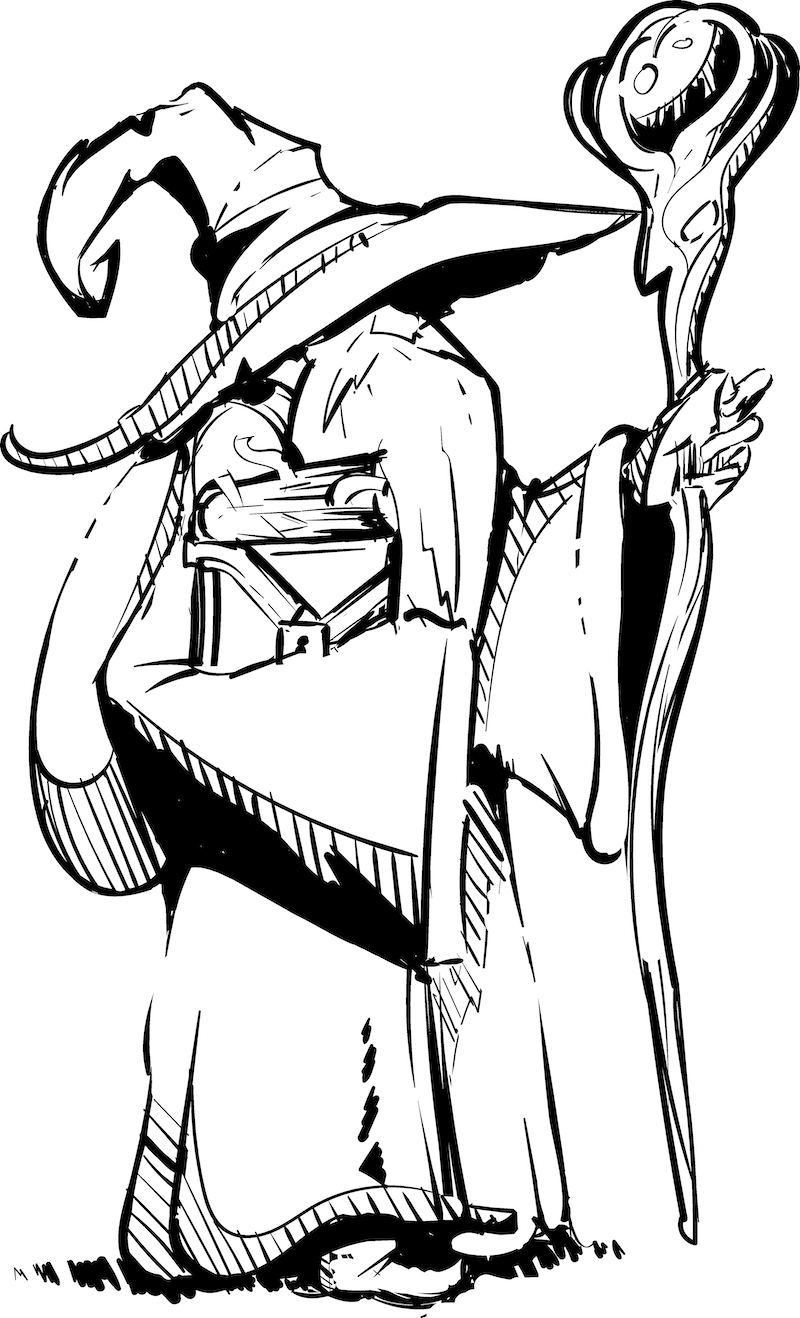
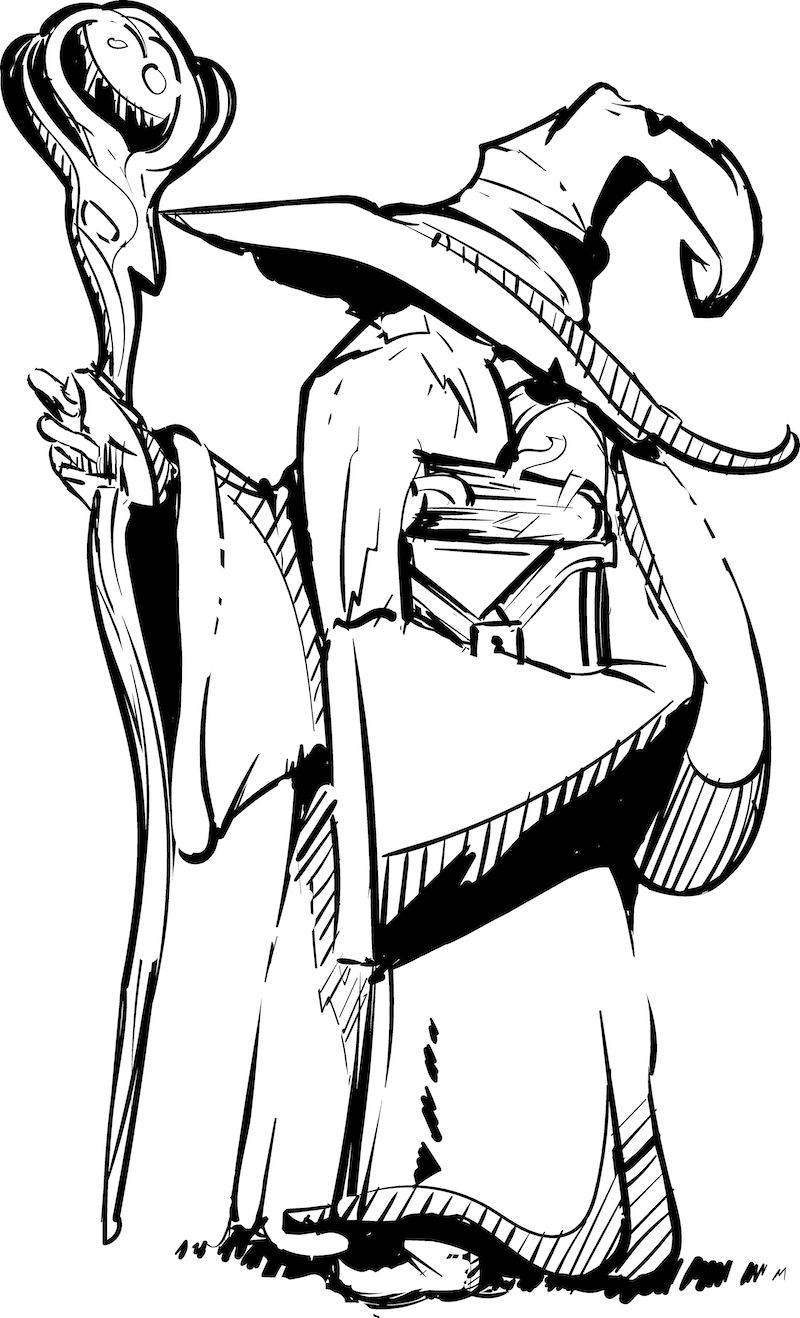
Updates to files for initial release version

diff --git a/staff_meeting_one_page.tex b/staff_meeting_one_page.tex
@@ -1,0 +1,91 @@
+\documentclass[12pt, parskip=half*, DIV=20, footinclude=no, headinclude=no, a4paper]{scrartcl}
+
+\usepackage{pullquote}
+
+\usepackage[dvipsnames]{xcolor}
+
+\usepackage{lipsum}
+\usepackage{ragged2e}
+
+\usepackage{fontspec}
+\setlength{\columnsep}{1.25cm} 
+%\raggedright
+
+\RedeclareSectionCommand[
+  runin=false,
+  afterindent=false,
+  beforeskip= 0cm,
+  afterskip=1.25ex,
+]{section}
+
+\RedeclareSectionCommand[
+  runin=false,
+  afterindent=false,
+  beforeskip=0pt,
+  afterskip=0ex,
+]{subsection}
+
+\RedeclareSectionCommand[
+  runin=false,
+  afterindent=false,
+  beforeskip=0pt,
+  afterskip=0ex,
+]{subsubsection}
+
+\makeatletter
+\newcommand{\version}[1]{\newcommand{\@version}{#1}}
+\makeatother
+
+\usepackage{scrlayer-scrpage} % Manage headers and footers in Koma-Script document classes
+% Set header
+\clearpairofpagestyles
+\makeatletter
+\cfoot*{\normalshape Version \@version}
+\makeatother
+
+% Minimize unwanted hyphenation
+%\tolerance=1
+%\emergencystretch=\maxdimen
+%\hyphenpenalty=1
+%\hbadness=10000
+
+
+\RaggedRight
+\version{0.1}
+\begin{document}
+\thispagestyle{empty}
+\setkomafont{title}{\setmainfont[Scale=4.6]{Magic School One}}%
+\addtokomafont{title}{\vspace{-1cm}}
+
+\setkomafont{author}{\vspace{-0.8cm}\Huge\setmainfont{Bilbo Swash Caps}}
+\setkomafont{section}{\setmainfont{Able New}\Huge\center}
+\setkomafont{subsection}{\setmainfont{Able New}\huge}
+\setkomafont{subsubsection}{\setmainfont{Able New}\LARGE}
+
+\setmainfont{Cochin}
+
+\title{Staff Meeting\vspace{-0.75cm}}
+\author{}%by Michael Purcell}
+\date{}
+
+\maketitle
+\pagestyle{plain}
+%\vspace{-1.5cm}
+%\section*{Gameplay}
+\begin{pullquote}{object={\includegraphics[scale=0.03]{wizard_with_staff.png}}, shape=rectangular}
+%\section*{Overview}
+\lipsum[1-2]
+\end{pullquote}
+%\section*{Themes}
+%\lipsum[10-11]
+%%\newpage
+%
+%%\section*{Mechanics}
+%\lipsum[3]
+%
+%%\section*{Characters}
+%\lipsum[15]
+
+
+\end{document}
+

diff --git a/itch_thumbnail.tex b/itch_thumbnail.tex
@@ -1,0 +1,23 @@
+\documentclass{standalone}
+
+\usepackage{fontspec}
+\usepackage{tikz}
+
+\begin{document}
+\begin{tikzpicture}
+\setmainfont[Scale=3.5]{Magic School One}
+\huge
+\node[inner sep=0pt] at (0,3cm) {Staff Meeting};
+
+\node[inner sep=0pt] at (-2.5cm,-1cm) {\includegraphics[scale=0.03]{Images/wizard_with_staff.png}};
+
+\node[inner sep=0pt] at (2.5cm,-1cm) {\scalebox{-1}[1]{\includegraphics[scale=0.03]{Images/wizard_with_staff.png}}};
+
+\setmainfont{Bilbo Swash Caps}
+\huge
+\node[inner sep=0pt] at (0,-4.25cm) {A Scoratic Worldbuilding Game by Michael Purcell};
+
+\path (-6.3cm, -5cm) -- (6.3cm, 5cm);
+\end{tikzpicture}
+
+\end{document}

diff --git a/itch_banner.tex b/itch_banner.tex
@@ -7,12 +7,13 @@
 \begin{tikzpicture}
 \setmainfont[Scale=3.25]{Magic School One}
 \Huge
-\node[inner sep=0pt] at (0,0) {Staff Meeting};
+\node[inner sep=0.5cm] at (0,0) {Staff Meeting};
 
 \setmainfont{Bilbo Swash Caps}
 \huge
 
-\node[inner sep=0pt] at (0,-2cm) {A Socratic Worldbuilding Game by Michael Purcell};
+\node[inner sep=0.5cm] at (0,-2cm) {A Socratic Worldbuilding Game by Michael Purcell};
+
 \end{tikzpicture}
 
 \end{document}

diff --git a/invitation.tex b/invitation.tex
@@ -4,6 +4,6 @@
 
 \begin{document}
 
-\includepdf[pages=2]{staff_meeting_pages.pdf}
+\includepdf[pages=2]{RulesDocuments/staff_meeting_pages.pdf}
 
 \end{document}

diff --git a/README.md b/README.md
@@ -1,1 +1,63 @@
-# staff-meeting
+# Overview
+This is a worldbuilding game. It is intended for groups of three to six players and can be played in about one hour.
+
+You will assume the roles of teachers at a school of witchcraft and wizardry. Your students have recently started using staffs, a new kind of device that changes the ways in which they can interact with magic. You have gathered to discuss the situation and decide how you want to respond.
+
+During the game, you will address a series of questions about how staffs work and how they will affect life at the school. You will invent the answers to these questions as you play. By doing so, you will describe the world in which your characters live, how magic works there, and how it will be affected by this new technology.
+
+# Characters
+You will portray a teacher who works at the school. To create your character,
+  1. Describe the subject that you teach.
+  2. Describe your mannerisms and physical appearance.
+  3. Describe two types of questions about staffs that you can answer.
+
+Introduce yourself to the other characters before the meeting begins.
+
+# Gameplay
+The game takes place over a series of five rounds. 
+During each of the first four rounds, you will discuss one topic that the headmaster has identified as being of particular interest.
+During the last round, you will discuss how to respond to the issues raised in previous rounds. 
+
+## Topics
+The headmaster has identified four topics of particular interest for discussion:
+  1. Educational Outcomes
+  2. Safety \& Logistics
+  3. Academic Integrity
+  4. Equal Opportunity
+
+In each of the first four rounds, you will discuss one of these topics.
+
+## Facilitators
+One player should act as the facilitator in each round. Their job is to ensure that everyone has a fair chance to contribute and that the discussion stays focused on the topic at hand. In addition to their administrative duties, the facilitator may (and should) contribute to the discussion via their character as usual. 
+
+## Questions
+During the game, you will ask and answer questions both about staffs and about the game's setting.
+You will invent the answers to these questions as they arise to describe the world that your characters inhabit.
+
+### Factual Questions
+
+Factual questions are questions about the nature of some part of the game's setting.
+These questions are usually stated using one of the standard interrogatives: who, what, where, when, why, and how.
+
+Whoever is best suited to answer each factual question should do so.
+Your answers should be consistent with any details about the setting that have been previously established.
+Beyond that, however, you are free to invent any details you like as a part of your answers.
+
+### Socratic Questions
+Socratic questions are questions that encourage critical thinking.
+These questions frequently arise as follow-up questions after a player establishes a new detail about the game's setting.
+
+Socratic questions are often intended to do one or more of the following:
+  - Clarify concepts
+  - Challenge assumptions
+  - Probe evidence
+  - Discover alternative viewpoints
+  - Explore implications
+
+After someone answers a factual question, you should use Socratic questions to help them flesh out their answer and explain how any new details they introduced interact with other details that had been previously established.
+
+## Action Items
+During the last round, your job is to decide what you are going to do next.
+You should describe what you think needs to be done, what you can do yourselves, and what you need help with.
+
+As in the previous rounds, you should use Socratic questions to help each other understand what you are proposing and why you think that your proposal describes a reasonable course of action.
